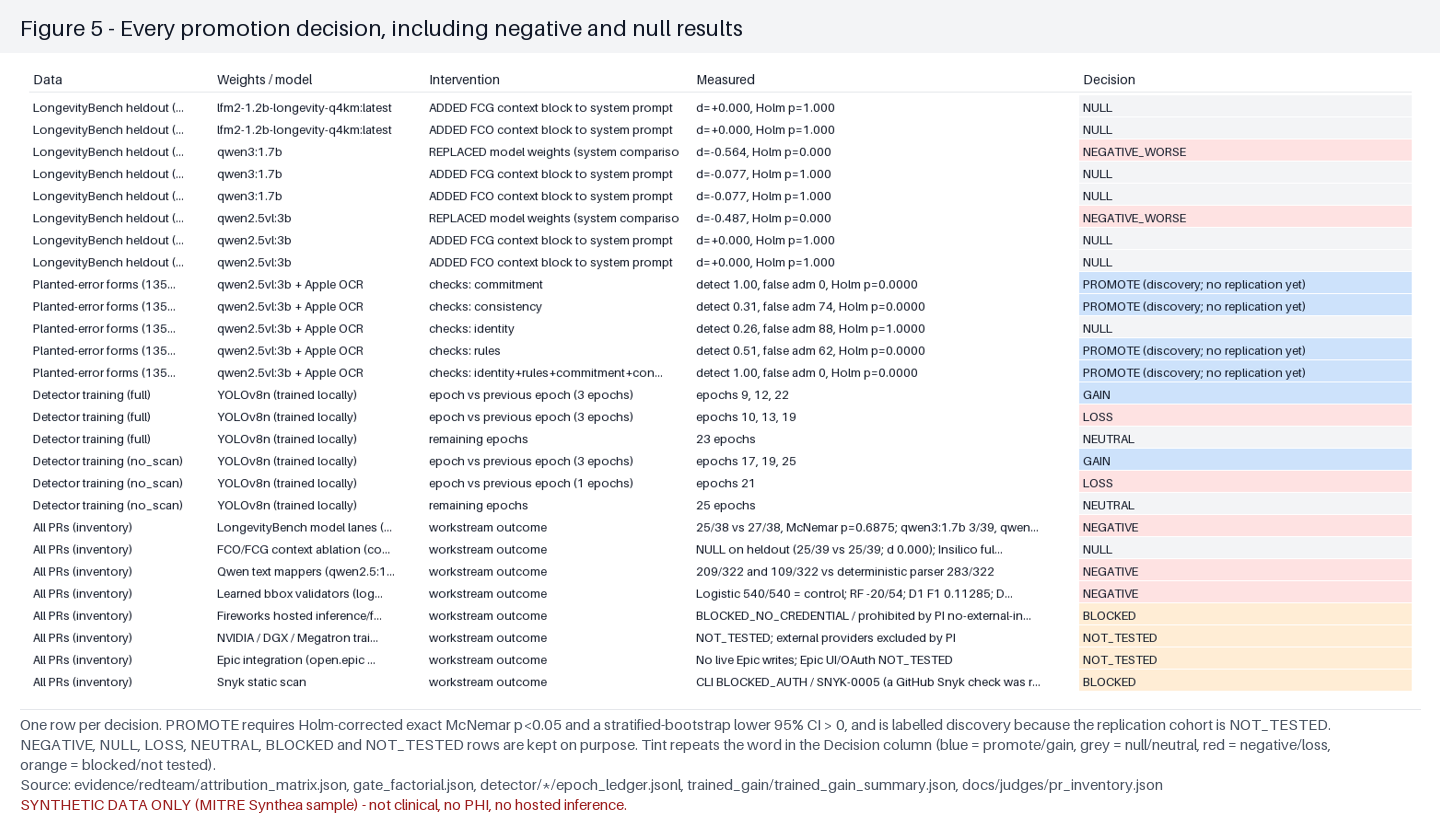
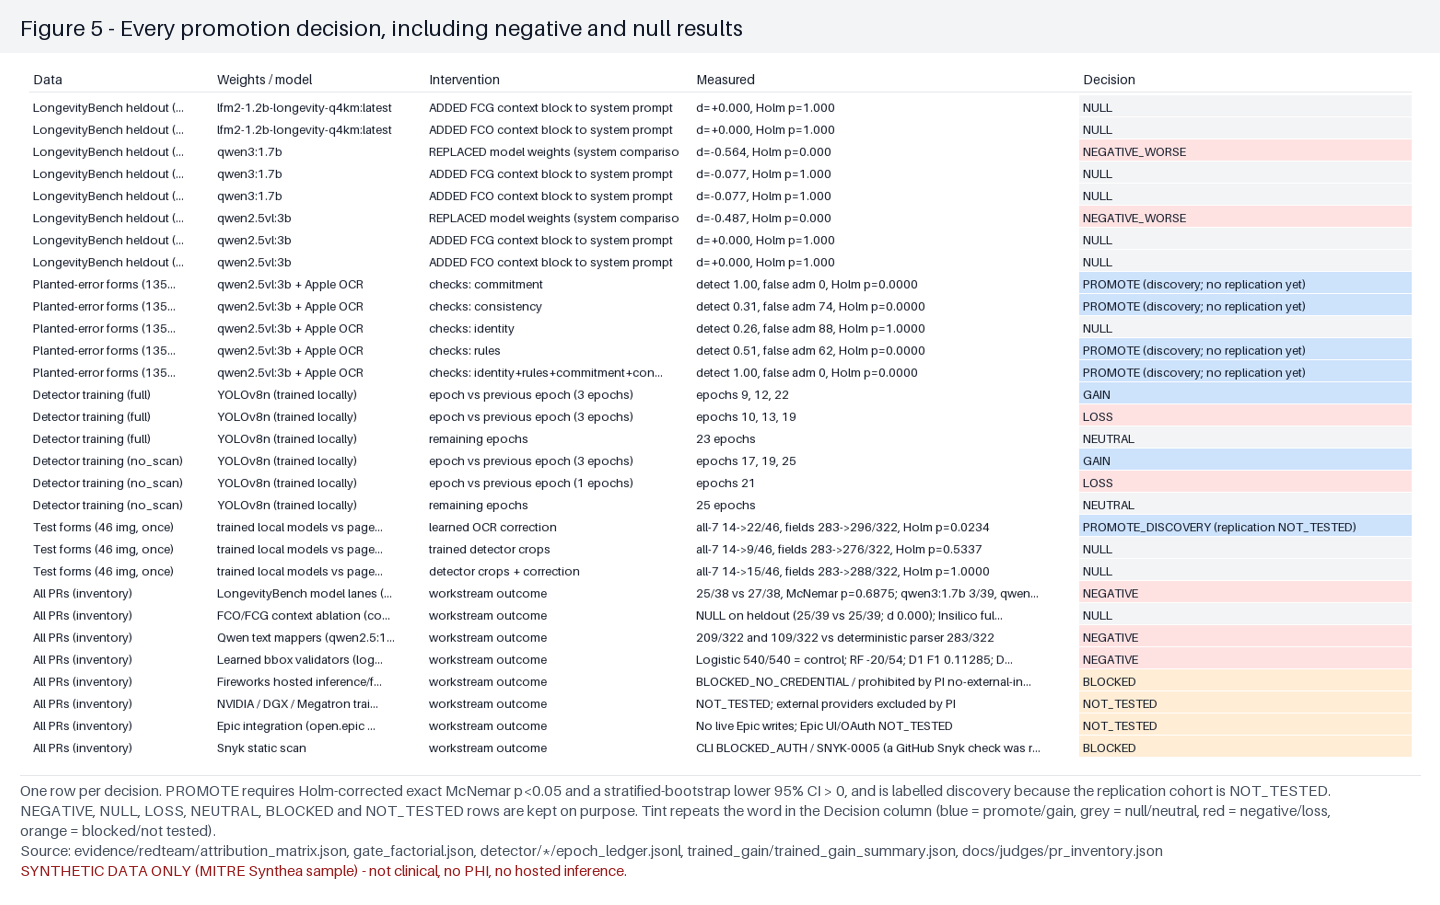
judges: trained-model gain figure and docs (A1 learned correction PROMOTE_DISCOVERY; A2/A3 detector-crop arms NULL kept)
Claude-Session: https://claude.ai/code/session_015q5z1yxeK1dLqgR4fp9YLR

Changed region(s): [[0.0, 0.0, 1.0, 0.9917]]

diff --git a/scripts/redteam/make_judge_figures.py b/scripts/redteam/make_judge_figures.py
@@ -234,6 +234,22 @@ def main():
             'One row per decision. PROMOTE requires Holm-corrected exact McNemar p<0.05 and a stratified-bootstrap lower 95% CI > 0, and is labelled discovery because the replication cohort is NOT_TESTED. NEGATIVE, NULL, LOSS, NEUTRAL, BLOCKED and NOT_TESTED rows are kept on purpose. Tint repeats the word in the Decision column (blue = promote/gain, grey = null/neutral, red = negative/loss, orange = blocked/not tested).',
             'evidence/redteam/attribution_matrix.json, gate_factorial.json, detector/*/epoch_ledger.jsonl, trained_gain/trained_gain_summary.json, docs/judges/pr_inventory.json', 'promotions_and_negatives')
 
+    # trained local models vs untrained baseline (preregistered, test split scored once)
+    if tgp.exists():
+        t = json.loads(tgp.read_text()); C = t['comparisons_vs_A0']; b0 = C['A1']
+        items = [('A0 page OCR + rule parser (untrained)', b0['baseline_all7'], f"/ 46 forms all 7 fields | {b0['baseline_fields_correct']}/322 fields | baseline")]
+        names = {'A1': 'A1 + learned correction (fit on train)', 'A2': 'A2 trained YOLOv8n crops + OCR', 'A3': 'A3 detector crops + correction'}
+        for arm in ('A1', 'A2', 'A3'):
+            c = C[arm]; lo, hi = c['ci95_bootstrap_stratified']
+            items.append((names[arm], c['arm_all7'], f"/ 46 | {c['fields_correct']}/322 fields | Holm p={c['p_holm']:.3f} | CI [{lo:+.2f},{hi:+.2f}] | {c['decision'].split(' ')[0]}"))
+        cm = t['trained_components']['post_correction']
+        rules = [f"{f}: {k}" for f, m in cm['char_map'].items() for k in m]
+        add('Trained local models vs the untrained baseline (test split, scored once)', bars(items, 46, width=1300),
+            'Preregistered before the test split was scored (scripts/redteam/trained_gain_eval.py, committed first). Endpoint: forms with all 7 fields correct, 46 held-out images (23 patients x clean + scan). '
+            f"The learned correction was fit only on the 132 training images: strip spaces in every field (no training value contains one) plus character rules seen at least twice and never contradicted ({', '.join(rules) or 'none'}). "
+            'It is the only trained arm that is promoted, at discovery grade because the replication cohort is NOT_TESTED. The trained YOLOv8n detector finds fields well (mAP50 0.912) but OCR on its crops is NULL, and so is crops plus correction.',
+            'evidence/redteam/trained_gain/trained_gain_summary.json, trained_gain_rows.json', 'trained_gain')
+
     # 5+ labelled form images
     demo = R / 'docs/demo'
     shots = [

diff --git a/docs/judges/FIGURES.md b/docs/judges/FIGURES.md
@@ -44,49 +44,57 @@ One row per decision. PROMOTE requires Holm-corrected exact McNemar p<0.05 and a
 
 *Source:* `evidence/redteam/attribution_matrix.json, gate_factorial.json, detector/*/epoch_ledger.jsonl, trained_gain/trained_gain_summary.json, docs/judges/pr_inventory.json`
 
-## Figure 6 — A clean synthetic intake form with three kinds of boxes
+## Figure 6 — Trained local models vs the untrained baseline (test split, scored once)
 
-![Figure 6](figures/fig06_clean_boxes.png)
+![Figure 6](figures/fig06_trained_gain.png)
+
+Preregistered before the test split was scored (scripts/redteam/trained_gain_eval.py, committed first). Endpoint: forms with all 7 fields correct, 46 held-out images (23 patients x clean + scan). The learned correction was fit only on the 132 training images: strip spaces in every field (no training value contains one) plus character rules seen at least twice and never contradicted (Synthetic case: O->0). It is the only trained arm that is promoted, at discovery grade because the replication cohort is NOT_TESTED. The trained YOLOv8n detector finds fields well (mAP50 0.912) but OCR on its crops is NULL, and so is crops plus correction.
+
+*Source:* `evidence/redteam/trained_gain/trained_gain_summary.json, trained_gain_rows.json`
+
+## Figure 7 — A clean synthetic intake form with three kinds of boxes
+
+![Figure 7](figures/fig07_clean_boxes.png)
 
 Renderer ground truth (green dashed), Apple Vision OCR text lines (blue) and the locally trained YOLOv8n detector (orange, with confidence) on a frozen SYNFORM2 test render.
 
 *Source:* `docs/demo/overlay/synform2-ce08cff8d07665997ab7_clean.png`
 
-## Figure 7 — The same form as a scan-like image (rotation, noise, blur, JPEG)
+## Figure 8 — The same form as a scan-like image (rotation, noise, blur, JPEG)
 
-![Figure 7](figures/fig07_scan_boxes.png)
+![Figure 8](figures/fig08_scan_boxes.png)
 
 Scan-like variant of the same patient; boxes as in the previous figure. Used to test robustness of OCR and the detector.
 
 *Source:* `docs/demo/overlay/synform2-ce08cff8d07665997ab7_scan.png`
 
-## Figure 8 — Planted error the models cannot see: first and last names swapped
+## Figure 9 — Planted error the models cannot see: first and last names swapped
 
-![Figure 8](figures/fig08_planted_name_swap.png)
+![Figure 9](figures/fig09_planted_name_swap.png)
 
 Local form server: the printed form swaps first/last name. qwen2.5vl:3b reads the printed values faithfully and every rule passes — only the per-field source commitment in the FCO leaf rejects it.
 
 *Source:* `docs/demo/screenshots/synform2-ce08cff8d07665997ab7_E6_name_swap.png`
 
-## Figure 9 — Planted cross-patient error: another patient's case id
+## Figure 10 — Planted cross-patient error: another patient's case id
 
-![Figure 9](figures/fig09_planted_case_swap.png)
+![Figure 10](figures/fig10_planted_case_swap.png)
 
 The printed case id belongs to a different patient. The identity check (FCO case id) and the commitment check both reject it.
 
 *Source:* `docs/demo/screenshots/synform2-ce08cff8d07665997ab7_E3_case_id_swap.png`
 
-## Figure 10 — Heavy noise variant read by the models
+## Figure 11 — Heavy noise variant read by the models
 
-![Figure 10](figures/fig10_heavy_noise.png)
+![Figure 11](figures/fig11_heavy_noise.png)
 
 Heavier noise and rotation with no planted error; tests whether extraction stays correct under degradation.
 
 *Source:* `docs/demo/screenshots/synform2-ce08cff8d07665997ab7_V2_scan_sigma25.png`
 
-## Figure 11 — Drawing boxes on an image breaks OCR
+## Figure 12 — Drawing boxes on an image breaks OCR
 
-![Figure 11](figures/fig11_boxes_break_ocr.png)
+![Figure 12](figures/fig12_boxes_break_ocr.png)
 
 Same 10 forms, same OCR engine and parser; the only change is the drawn bounding boxes. Lesson: run OCR on the clean render and keep overlays for humans.
 

diff --git a/docs/reviews/CLAUDE_REDTEAM_REPORT.md b/docs/reviews/CLAUDE_REDTEAM_REPORT.md
@@ -40,16 +40,29 @@ YOLOv8n field-box detector trained on the SYNFORM2 train split only, scored on d
 
 Ledgers: `evidence/redteam/detector/{full,no_scan}/epoch_ledger.jsonl`; replay notebook `notebooks/16_redteam_epoch_breakpoints.ipynb` (not executed at finish: NOT_TESTED).
 
+## 4. Trained local models vs the untrained baseline (preregistered, test split scored once)
+
+The protocol was committed before scoring, in `scripts/redteam/trained_gain_eval.py` (5615a07). The same Apple Vision OCR engine is used in every arm, so only the trained components differ. The endpoint is forms with all 7 fields correct, on 46 held-out images. Statistics are exact McNemar with Holm over the three arms, plus a stratified bootstrap (10,000 reps, seed 20261102).
+
+| Arm | Trained component | All 7 correct | Fields | Holm p | 95% CI (Δ rate) | Decision |
+|---|---|---|---|---|---|---|
+| A0 | none (page OCR + rule parser) | 14/46 | 283/322 | — | — | baseline |
+| A1 | learned correction fit on 132 train images | 22/46 | 296/322 | 0.023 | [+0.065, +0.283] | PROMOTE_DISCOVERY |
+| A2 | YOLOv8n detector crops (best `d7bc1a04…`) | 9/46 | 276/322 | 0.534 | [−0.261, +0.043] | NULL |
+| A3 | A2 + learned correction | 15/46 | 288/322 | 1.000 | [−0.109, +0.152] | NULL |
+
+The learned correction is small. It strips spaces in every field, because no training value contains one, and maps `O` to `0` in the case id. Replication on a second cohort is NOT_TESTED, so this is OBSERVED at discovery grade and not SUPPORTED. Evidence: `evidence/redteam/trained_gain/`, judge Figure 6.
+
 ## TURN_BREAKPOINT
 
 * **ID**: CLAUDE-REDTEAM-CLOUD-20261102-FINAL
 * **PARENT**: PR #3 head `da953450`; roots `9e4d4df8…`, `5f9a7e51…`, `2f1cfafd…`
[1 lines of base64/hex data omitted]
-* **EXECUTED**: independent replay; L0/L1/L2 discovery+heldout; L0 cold replay; L3 discovery; Apple Vision OCR (train/dev/test, ERR); qwen2.5vl on ERR (135/230); gate factorial; detector full + LOMO; Lean ×2; gitleaks ×2; gsigmad init/register/classify/status
+* **EXECUTED**: trained-gain evaluation (A0–A3, test split once); independent replay; L0/L1/L2 discovery+heldout; L0 cold replay; L3 discovery; Apple Vision OCR (train/dev/test, ERR); qwen2.5vl on ERR (135/230); gate factorial; detector full + LOMO; Lean ×2; gitleaks ×2; gsigmad init/register/classify/status
 * **OBSERVED**: as in sections 1–3
 * **DECISIONS**: Insilico stopped; Fireworks not used; 12-form lane, mapper/bbox lanes and DB build dropped at finish request
 * **PROPOSED**: commitment-gate replication; mapper lanes; template-family replication
 * **NOT_TESTED**: Fireworks L4/L5, Snyk, NVIDIA training, live Supabase, Epic, mapper/bbox lanes, EXP-012/014/015/016 notebook execution
 * **FAILURES**: L3 MPS hang (resumed); gitleaks 273 false positives (repaired); EXP-013 first run import error (repaired, v1 kept)
-* **UNRESOLVED**: F-01 in predecessor schemas; replication of the commitment gain
+* **UNRESOLVED**: F-01 in predecessor schemas; replication of the commitment gain and of the learned-correction gain (A1)
 * **NEXT_ACTION**: teammate review of this merge into `feat/fcg-ehr-evidence-lab-20261102`; PR #3 itself left for the owner

diff --git a/docs/judges/WHAT_WE_DID_AND_NEXT.md b/docs/judges/WHAT_WE_DID_AND_NEXT.md
@@ -50,6 +50,10 @@ This covers 34 PRs: 27 merged, 4 open and 3 closed unmerged. The full inventory 
 - **YOLOv8n:** test mAP50 0.912, with 315/322 fields detected (#20).
 - **100-patient B0 acceptance:** 1,867/2,180 fields (85.6422%) and 0 server echo errors (#22).
 - **Bounding boxes and OCR:** drawing boxes onto a form image dropped Apple OCR from 58/70 to 0/70 correct fields on the same 10 forms, so OCR must run on the clean render (`docs/demo/ocr_boxes_vs_clean.json`).
+- **Trained local models vs the untrained baseline (preregistered, test split scored once):** the baseline is page OCR plus a rule parser, with 14/46 forms all correct.
+  - A learned OCR correction fit only on the training split raised this to 22/46 (fields 283→296/322), Holm p=0.023, CI [+0.07, +0.28]. PROMOTE_DISCOVERY; replication NOT_TESTED.
+  - OCR on crops from the trained YOLOv8n detector reached 9/46 (NULL). Crops plus the correction reached 15/46 (NULL).
+  - Source: `evidence/redteam/trained_gain/`, Figure 6.
 - **Custody:** all 728 inclusion proofs and the review roots were independently recomputed (#11, #20, #47).
 
 ## Negative and null results we kept
@@ -62,6 +66,7 @@ This covers 34 PRs: 27 merged, 4 open and 3 closed unmerged. The full inventory 
 - **Random Forest box validator:** −37.0 pp full-page vs the control (#15).
 - **D1:** F1 0.11285, NEGATIVE.
 - **D2:** F1 0.77828, exploratory only because it was tested on layouts it had already seen (#16).
+- **Trained detector crops for OCR:** 9/46 vs 14/46 baseline, NULL (Holm p=0.534). A good detector (mAP50 0.912) did not make crop OCR better.
 - **LoRA SFT:** only an epoch-0 loss (1.0049872103490327) and no adapter, so the gain is NOT_TESTED (#18).
 - **Publication policy:** 123 legacy non-JSON files are exempt but not compliant (#22, #30).
 - **External services:** Snyk and Fireworks BLOCKED. NVIDIA, live Supabase and Epic NOT_TESTED.
@@ -69,7 +74,7 @@ This covers 34 PRs: 27 merged, 4 open and 3 closed unmerged. The full inventory 
 ## What remains (ordered)
 
 1. **Fresh replication cohort (T01 #31).** Preregister and score it once.
-2. **Trained-model result (T08 #38).** Restart SFT M1, then score M0, M1 and M2 on the 54 test forms.
+2. **Trained-model result (T08 #38).** Replicate the learned-correction promotion on a fresh cohort. Restart SFT M1, then score M0, M1 and M2 on the 54 test forms.
 3. **Custody fixes (#47).** Fix the duplicate-last-leaf, unbound-parent and dangling-edge findings, then regenerate `evidence/stats` through the gate.
 4. **Oracle-rule sign-off (T02 #32).**
 5. **Noisy and scanned renders (T03 #33).** Score the OCR and VLM arms clean vs degraded.

diff --git a/experiments/CLAUDE_LAB_NOTEBOOK.md b/experiments/CLAUDE_LAB_NOTEBOOK.md
@@ -118,3 +118,10 @@ replication: same hosts, same weights, same cases, temperature 0.
 * 22:30 UTC GPU contention on magicSTUDIObox (sibling lane holding qwen2.5:1.5b, my VLM-ERR pass, the Insilico MPS lane and a
   newly queued mapper lane): Ollama began swapping qwen2.5vl in and out; the mapper driver was paused by the operator (this
   session) and will be re-queued after the VLM passes. All latency/throughput receipts from this window are CONFOUNDED.
+
+## R09 — trained-model gain, preregistered (OBSERVED 2026-11-02)
+
+* Protocol committed first (5615a07, sha256 `9ba4b693…`), then run once on magicSTUDIObox against the 46 test images (EXIT=0).
+* A1 learned correction: all-7 14→22/46, Holm p=0.023, CI [+0.065, +0.283], PROMOTE_DISCOVERY (replication NOT_TESTED).
+* A2 detector crops: 9/46, NULL. A3 crops + correction: 15/46, NULL. Both kept as null results.
+* Outputs: `evidence/redteam/trained_gain/{trained_gain_summary.json, trained_gain_rows.json, run_log.txt}`.
